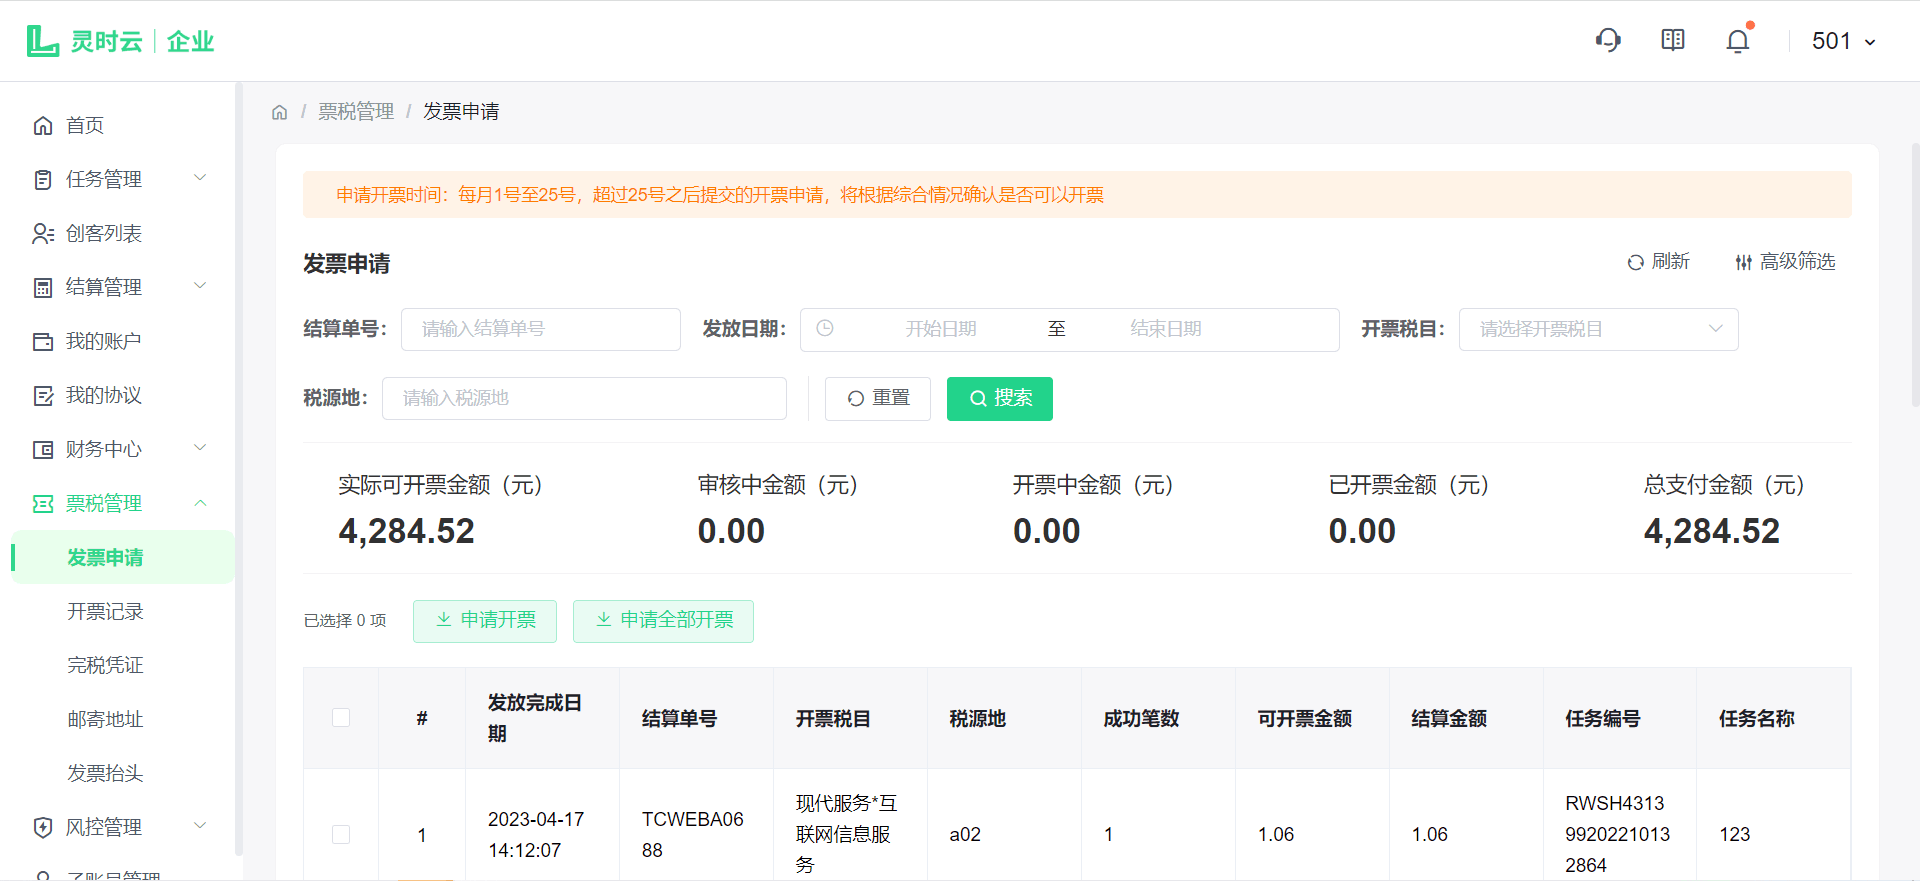
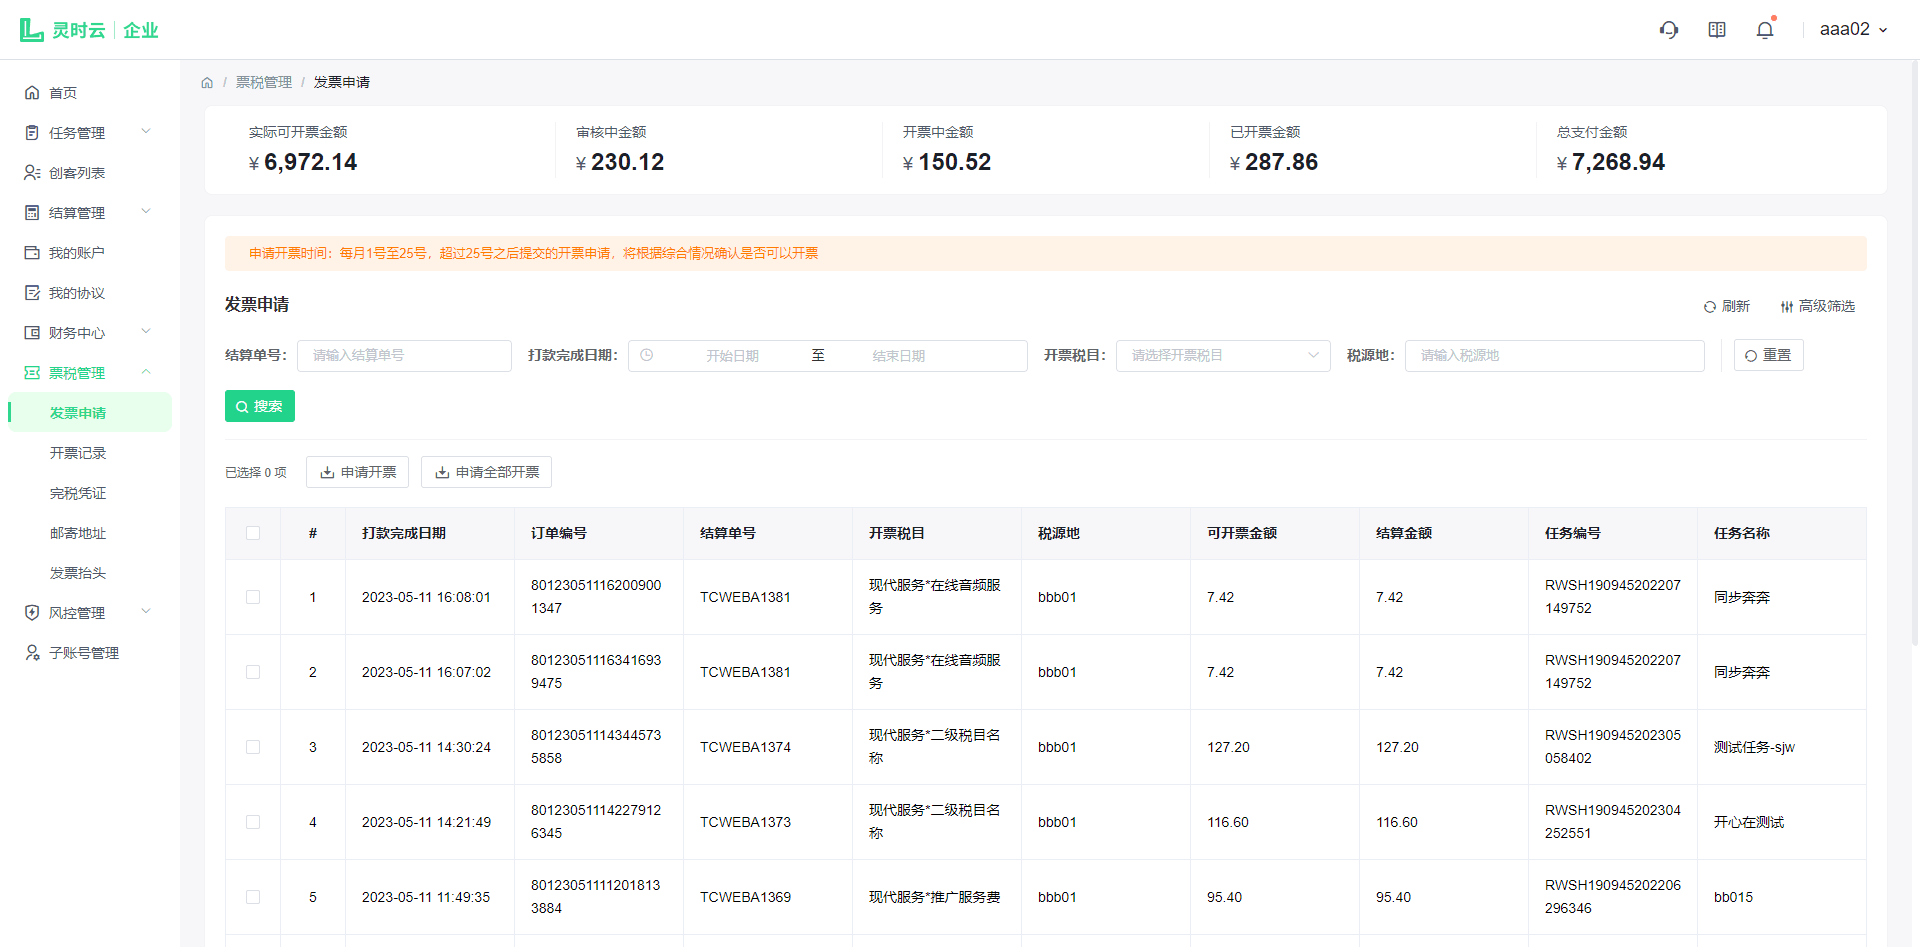
update code

diff --git a/docs/instruction/bill/README.md b/docs/instruction/bill/README.md
@@ -8,25 +8,27 @@ next: /instruction/account/
 
 ## 1. 发票申请
 
-点击侧边导航栏-票税管理-发票申请，当前页面显示已发放完成的所有结算单，可以输入结算单号，选择发放日期进行发票的筛选如下图：
+点击侧边导航栏-票税管理-发票申请，当前页面显示已发放完成的所有结算单，可以输入结算单号、选择打款完成日期、开票税目、税源地进行发票的筛选如下图：
 
 ![图片22.png](../static/img22.png)
 
-勾选可开票结算单后，点击【申请开票】按钮，进入申请开票流程，如下图所示：
+勾选可开票结算单后，点击【申请开票】按钮，进入申请开票流程，您如下图所示：
 
 ![图片23.png](../static/img23.png)
 
-点击下一步，如下图：
+您需选择/填写发票类型、发票抬头、邮寄地址、邮箱、备注等基本信息。（若您选择的发票类型是电子发票，需填写邮箱信息）
+
+发票抬头、收件人信息模块，点击文本框，可更换对应的信息（若没有信息可点击【新增发票抬头/邮寄地址】填写），如下图所示：
 
 ![图片24.png](../static/img24.png)
 
-发票抬头、收件人信息模块，点击【选择】按钮，可更换对应的信息，如下图所示：
-
 ![图片25.png](../static/img25.png)
 
-![图片26.png](../static/img26.png)
-
 点击【提交】按钮，开票申请提交成功，等待审核，可在开票记录中查看到对应的开票申请详细信息。
+
+注意：申请开票时，若您当前存在退汇的发票申请，选中的结算单总金额需要大于当前退汇总金额，否则无发申请，系统会给出相应提示；如下图：
+
+![图片26.png](../static/img26.png)
 
 ## 2. 开票记录
 
@@ -42,19 +44,23 @@ next: /instruction/account/
 
 ![图片34.png](../static/img34.png)
 
+您可批量勾选已开票的发票，点击【批量下载发票】或【下载全部发票】 进行下载；如下图：
+
+![图片41.png](../static/img41.png)
+
 ## 3. 发票抬头
 
 点击侧边导航栏-票税管理-发票抬头，当前页面显示用户添加的所有抬头信息，输入抬头名称、电话号码进行查询。如下图：（用户申请开票的时候，系统将自动填充默认的抬头信息）
 
 ![图片29.png](../static/img29.png)
 
-点击【新增】按钮可以新增抬头信息，如下图：
+点击【新增】按钮可以新增抬头信息（勾选设为默认可将当前抬头信息直接设置为默认抬头），如下图：
 
 ![图片30.png](../static/img30.png)
 
 点击【编辑】按钮可以修改抬头信息；
 
-点击【默认】按钮可将当前抬头信息设置为默认；
+点击【设为默认】按钮可将当前抬头信息设置为默认；
 
 点击【删除】按钮可以删除当前抬头信息。
 
@@ -65,12 +71,12 @@ next: /instruction/account/
 
 ![图片31.png](../static/img31.png)
 
-点击【新增】按钮可以新增地址信息，如下图：
+点击【新增】按钮可以新增地址信息（勾选设为默认可将当前地址信息直接设置为默认地址），如下图：
 
 ![图片32.png](../static/img32.png)
 
 点击【编辑】按钮可以修改地址信息；
 
-点击【默认】按钮可将当前地址信息设置为默认；
+点击【设为默认】按钮可将当前地址信息设置为默认；
 
 点击【删除】按钮可以删除当前地址信息。

diff --git a/docs/instruction/risk/README.md b/docs/instruction/risk/README.md
@@ -31,3 +31,21 @@ next: /instruction/openapi/
 点击【删除】二次确认，可删除有误的白名单信息，如下图：
 
 ![图片39.png](../static/img39.png)
+
+## 2. 业务确认单
+
+系统每月2号会根据上月打款成功且未退汇的订单，按照商户和税源地汇总，生成待确认的记录；您需在该页面对待确认的业务确认单进行确认。如下图：
+
+![图片42.png](../static/img42.png)
+
+### 2.1. 线上确认
+
+您无需上传盖章文件，直接点击【确认】，即可完成业务确认单的确认且无需审核，自动跳转为已通过，并生成已确认的可下载的业务确认单文件。如图所示：
+
+![图片43.png](../static/img43.png)
+
+### 2.2. 线下盖章确认
+您需下载业务确认单，盖章后上传；等待运营端审核，审核通过后，状态变为已通过；若驳回的话，确认单状态变为已驳回，您可以重新上传。如下图所示：
+![图片44.png](../static/img44.png)
+
+![图片45.png](../static/img45.png)

diff --git a/docs/instruction/settlement/README.md b/docs/instruction/settlement/README.md
@@ -19,7 +19,7 @@ next: /instruction/finance/
 
 ![图片9png](../static/img9.png)
 
-然后点击【导入结算单】选择您刚刚填写好保存的文件，进入导入结算单页面。可看见导入的结算单列表，您需虚着呢任务后点击【确定】即可成功导入。如下图：（Web API用工上传结算单时，每个结算单系统会自动生成一条任务，任务名称：商户名称创建任务，任务描述：商户名称准备打款，任务金额：计划金额-计划金额*100）
+然后点击【导入结算单】选择您刚刚填写好保存的文件，进入导入结算单页面。可看见导入的结算单列表，您需选择任务后点击【确定】即可成功导入。如下图：（Web API用工上传结算单时，每个结算单系统会自动生成一条任务，任务名称：商户名称创建任务，任务描述：商户名称准备打款，任务金额：计划金额-计划金额*100）
 
 ![图片10.png](../static/img10.png)
 
